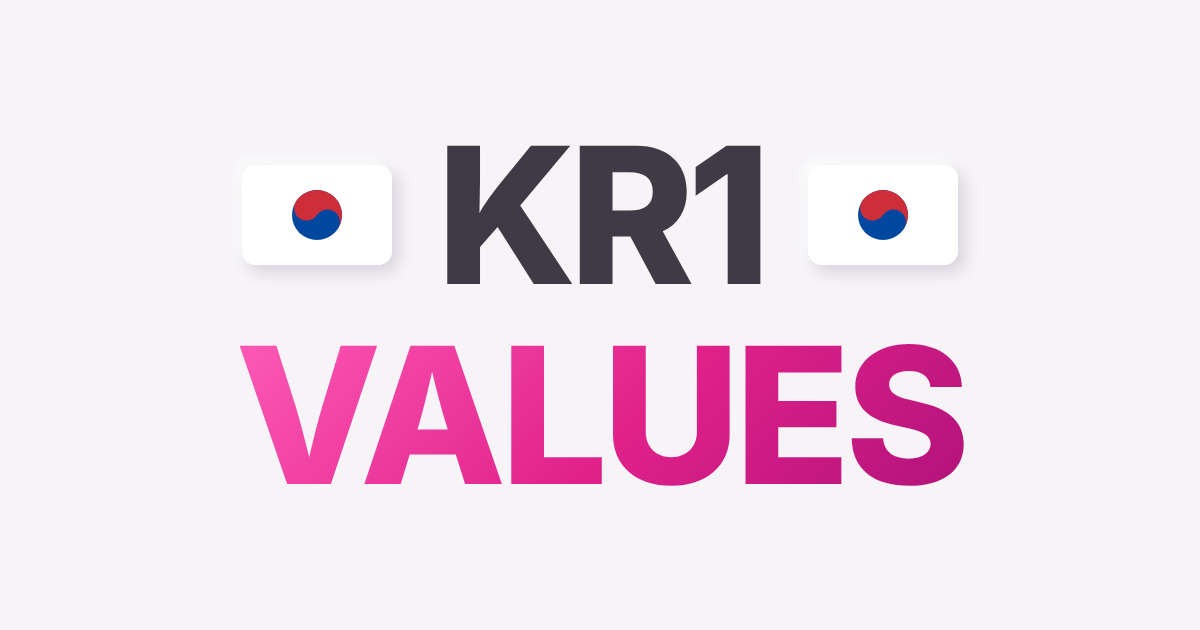
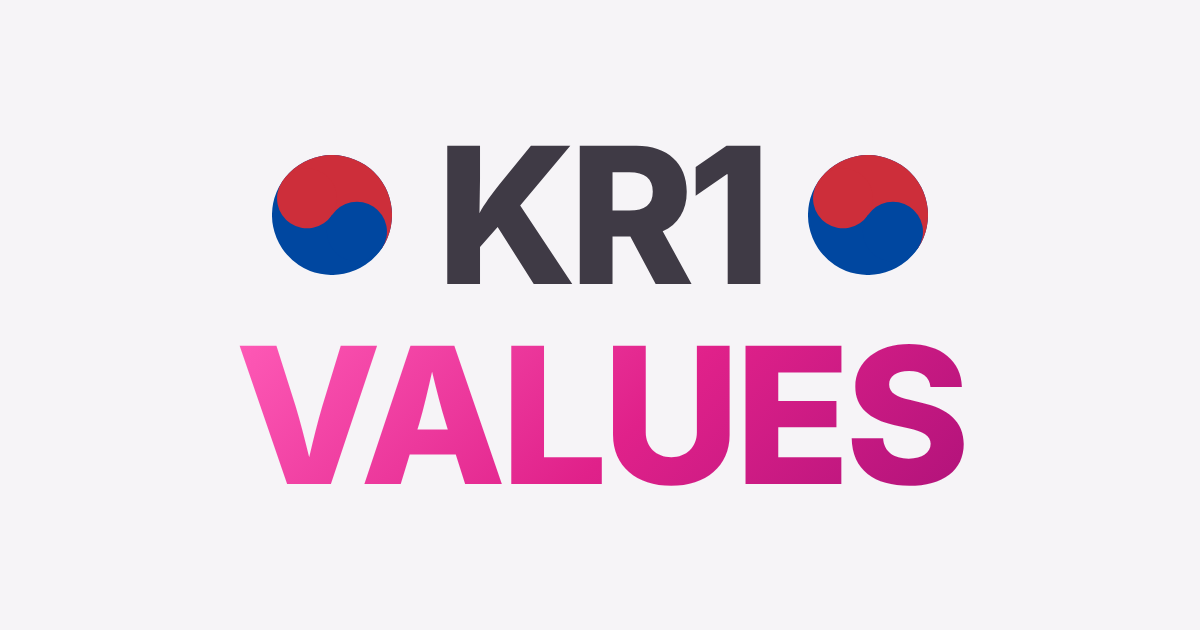
태극기 흰 사각형 제거 (태극 문양만)
Claude-Session: https://claude.ai/code/session_0157UWBoYPKymih2wT4wamNS

Changed region(s): [[0.2158, 0.2413, 0.3392, 0.4524], [0.6475, 0.2413, 0.8017, 0.4524]]

diff --git a/style.css b/style.css
@@ -89,7 +89,7 @@ input[type=search], select, .trade-input { background: var(--bg); border: 0; box
   position: relative;
 }
 .logo::before { content: ""; width: 14px; height: 13px; background: var(--grad); clip-path: polygon(50% 0, 100% 100%, 0 100%); }
-.flag { width: 22px; height: 15px; border-radius: 3px; box-shadow: 0 0 0 1px var(--line); flex: none; }
+.flag { width: 18px; height: 18px; flex: none; }
 .tabs { display: flex; gap: 8px; }
 .tab {
   padding: 7px 16px; border-radius: var(--pill); color: var(--muted); cursor: pointer;
@@ -301,7 +301,7 @@ table.changes tbody tr[data-id]:hover { background: var(--sunk); }
   .brand { flex: 1 1 auto; min-width: 0; font-size: 14px; gap: 7px; }
   .brand #siteTitle { overflow: hidden; text-overflow: ellipsis; }
   .logo { width: 28px; height: 28px; }
-  .flag { width: 20px; height: 14px; }
+  .flag { width: 16px; height: 16px; }
   .lang { padding: 6px 11px; font-size: 13px; }
   .theme-btn { width: 34px; height: 34px; }
   .kv .kv-vfm { grid-column: 1 / -1; }

diff --git a/index.html b/index.html
@@ -24,7 +24,7 @@
 </head>
 <body>
   <header class="top">
-    <div class="brand"><span class="logo" aria-hidden="true"></span><span id="siteTitle">KR1 Military Tycoon Values</span><img class="flag" src="images/kr-flag.svg" alt="대한민국 국기" width="24" height="16"></div>
+    <div class="brand"><span class="logo" aria-hidden="true"></span><span id="siteTitle">KR1 Military Tycoon Values</span><img class="flag" src="images/kr-flag.svg" alt="태극" width="18" height="18"></div>
     <nav class="tabs" role="tablist">
       <button class="tab active" data-view="values" data-i18n="tabValues"></button>
       <button class="tab" data-view="compare" data-i18n="tabCompare"></button>
